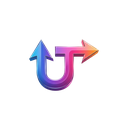
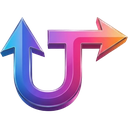
Update README with curl one-liners, fix shortcuts, update tray hover text
- Add remote curl install commands for all platforms (no clone needed)
- Fix keyboard shortcuts: Ctrl+Alt+2-9 (was 3-5), add Ctrl+Alt+W and Ctrl+Alt+R
- Add website link to README
- Tray hover text now shows just 'UniCent' instead of version string
- Regenerated tray icons from cropped logo (128px default size)

diff --git a/client/tray.py b/client/tray.py
@@ -225,14 +225,14 @@ class _PystrayClientTray:
 
     def start(self):
         try:
-            icon_image = _load_u_icon(64)
+            icon_image = _load_u_icon(128)
         except Exception as e:
             log.warning(f"Could not load tray icon: {e}")
             return
         self._icon = pystray.Icon(
             name='unicent-client',
             icon=icon_image,
-            title=f'{__app_name__} Client v{__version__}',
+            title=__app_name__,
             menu=self._build_menu(),
         )
         self._thread = threading.Thread(target=self._run_icon, daemon=True)
@@ -256,9 +256,7 @@ class _PystrayClientTray:
         self._active = active
         if self._icon:
             self._icon.menu = self._build_menu()
-            tooltip = f'{__app_name__} — Receiving input' if active else (
-                f'{__app_name__} — Connected' if connected
-                else f'{__app_name__} — Disconnected')
+            tooltip = __app_name__
             self._icon.title = tooltip
             try:
                 self._icon.update_menu()

diff --git a/host/tray.py b/host/tray.py
@@ -344,7 +344,7 @@ class HostTray:
                 os.environ['DISPLAY'] = ':0'
 
         try:
-            icon_image = _load_u_icon(64)
+            icon_image = _load_u_icon(128)
         except Exception as e:
             log.warning(f"Could not load tray icon: {e}")
             return
@@ -352,7 +352,7 @@ class HostTray:
         self._icon = pystray.Icon(
             name='unicent-host',
             icon=icon_image,
-            title=f'{__app_name__} Host v{__version__}',
+            title=__app_name__,
             menu=self._build_menu(),
         )
         self._tray_thread = threading.Thread(

diff --git a/host/tray_worker.py b/host/tray_worker.py
@@ -309,7 +309,7 @@ def main():
     icon = pystray.Icon(
         name="unicent-host",
         icon=img,
-        title=f"{__app_name__} Host v{__version__}",
+        title=__app_name__,
         menu=_build_menu(),
     )
     _icon_ref[0] = icon

diff --git a/README.md b/README.md
@@ -50,35 +50,55 @@ Any host can connect to any client — all combinations work together.
 
 ## Quick Start
 
-### Option 1: One-Command Installer
+### Option 1: One-Command Installer (Remote)
 
-Pick the right installer for your OS and role:
+Install directly from GitHub — no clone needed:
 
+**Debian / Ubuntu:**
 ```bash
-# Debian/Ubuntu — Host
-sudo bash installers/debian/install-host.sh
+# Host
+curl -fsSL https://raw.githubusercontent.com/JoshuaMGoth/unicent/main/installers/debian/install-host.sh | sudo bash
 
-# Debian/Ubuntu — Client
-sudo bash installers/debian/install-client.sh
+# Client
+curl -fsSL https://raw.githubusercontent.com/JoshuaMGoth/unicent/main/installers/debian/install-client.sh | sudo bash
+```
 
-# Arch Linux — Host
-sudo bash installers/arch/install-host.sh
+**Arch Linux:**
+```bash
+# Host
+curl -fsSL https://raw.githubusercontent.com/JoshuaMGoth/unicent/main/installers/arch/install-host.sh | sudo bash
 
-# Arch Linux — Client
-sudo bash installers/arch/install-client.sh
+# Client
+curl -fsSL https://raw.githubusercontent.com/JoshuaMGoth/unicent/main/installers/arch/install-client.sh | sudo bash
+```
 
-# macOS — Host
-bash installers/macos/install-host.sh
+**Ubuntu:**
+```bash
+# Host
+curl -fsSL https://raw.githubusercontent.com/JoshuaMGoth/unicent/main/installers/ubuntu/install-host.sh | sudo bash
 
-# macOS — Client
-bash installers/macos/install-client.sh
+# Client
+curl -fsSL https://raw.githubusercontent.com/JoshuaMGoth/unicent/main/installers/ubuntu/install-client.sh | sudo bash
+```
 
-# Windows — Host (PowerShell as Admin)
+**macOS:**
+```bash
+# Host
+curl -fsSL https://raw.githubusercontent.com/JoshuaMGoth/unicent/main/installers/macos/install-host.sh | bash
+
+# Client
+curl -fsSL https://raw.githubusercontent.com/JoshuaMGoth/unicent/main/installers/macos/install-client.sh | bash
+```
+
+**Windows (PowerShell as Administrator):**
+```powershell
+# Host
 Set-ExecutionPolicy Bypass -Scope Process -Force
-.\installers\windows\install-host.ps1
+irm https://raw.githubusercontent.com/JoshuaMGoth/unicent/main/installers/windows/install-host.ps1 | iex
 
-# Windows — Client (PowerShell as Admin)
-.\installers\windows\install-client.ps1
+# Client
+Set-ExecutionPolicy Bypass -Scope Process -Force
+irm https://raw.githubusercontent.com/JoshuaMGoth/unicent/main/installers/windows/install-client.ps1 | iex
 ```
 
 ### Option 2: Manual Setup
@@ -141,10 +161,11 @@ Options:
 | Shortcut | Action |
 |----------|--------|
 | Ctrl+Alt+S | Switch to next machine |
-| Ctrl+Alt+1 | Switch to machine #1 (host) |
-| Ctrl+Alt+2 | Switch to machine #2 (first client) |
-| Ctrl+Alt+3-5 | Switch to machine #3-5 |
-| Ctrl+Alt+C | Sync clipboard to all clients |
+| Ctrl+Alt+1 | Switch to host (machine #1) |
+| Ctrl+Alt+2–9 | Switch to client #2 through #9 |
+| Ctrl+Alt+C | Sync clipboard between all machines |
+| Ctrl+Alt+W | Wake & activate the current client's display |
+| Ctrl+Alt+R | Refresh screen layout |
 
 ### System Tray
 
@@ -232,6 +253,14 @@ unicent/
 | macOS | python3, pyobjc-framework-Quartz, rumps |
 | Windows | python3, pystray, Pillow |
 
+## Website
+
+[joshuagoth.com/downloads/unicent](https://joshuagoth.com/downloads/unicent/)
+
 ## License
 
 MIT
+
+---
+
+*A [JoshuaGoth Software](https://joshuagoth.com) project.*
